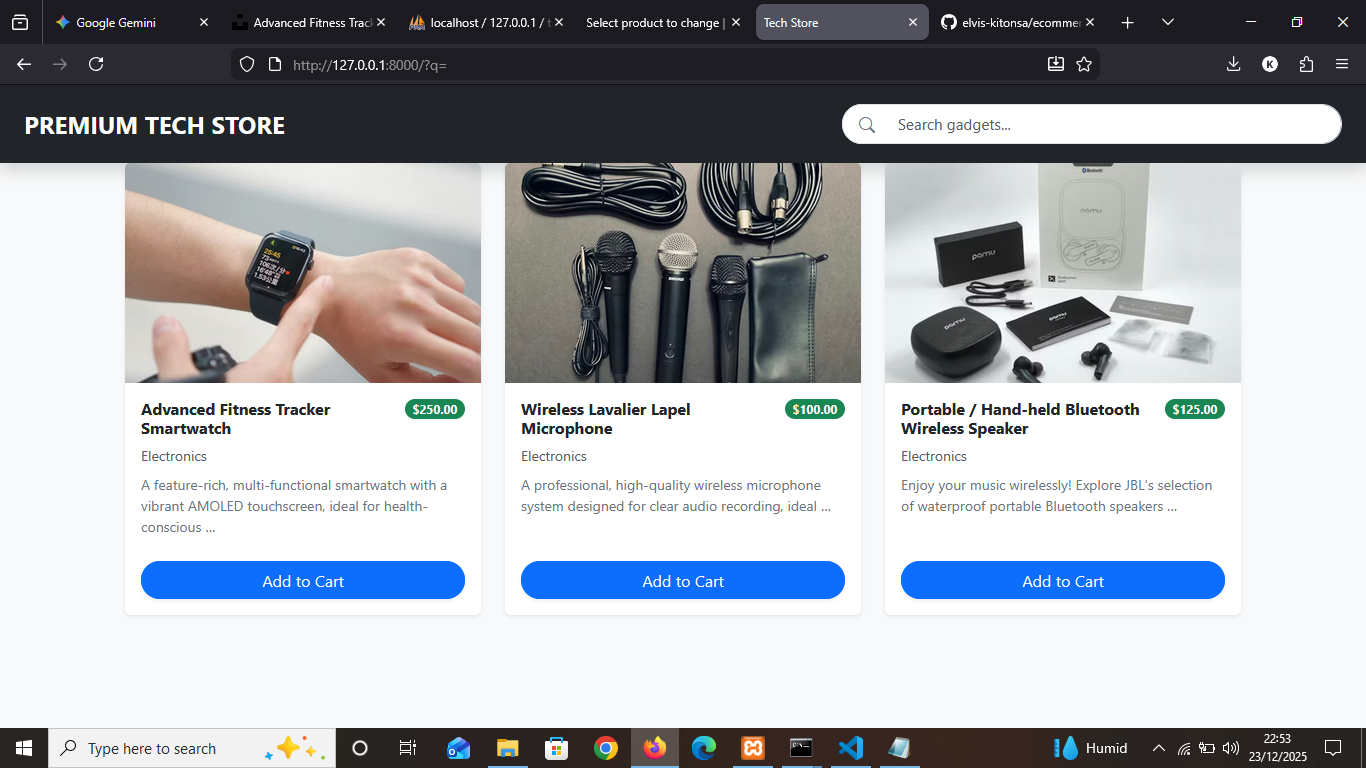
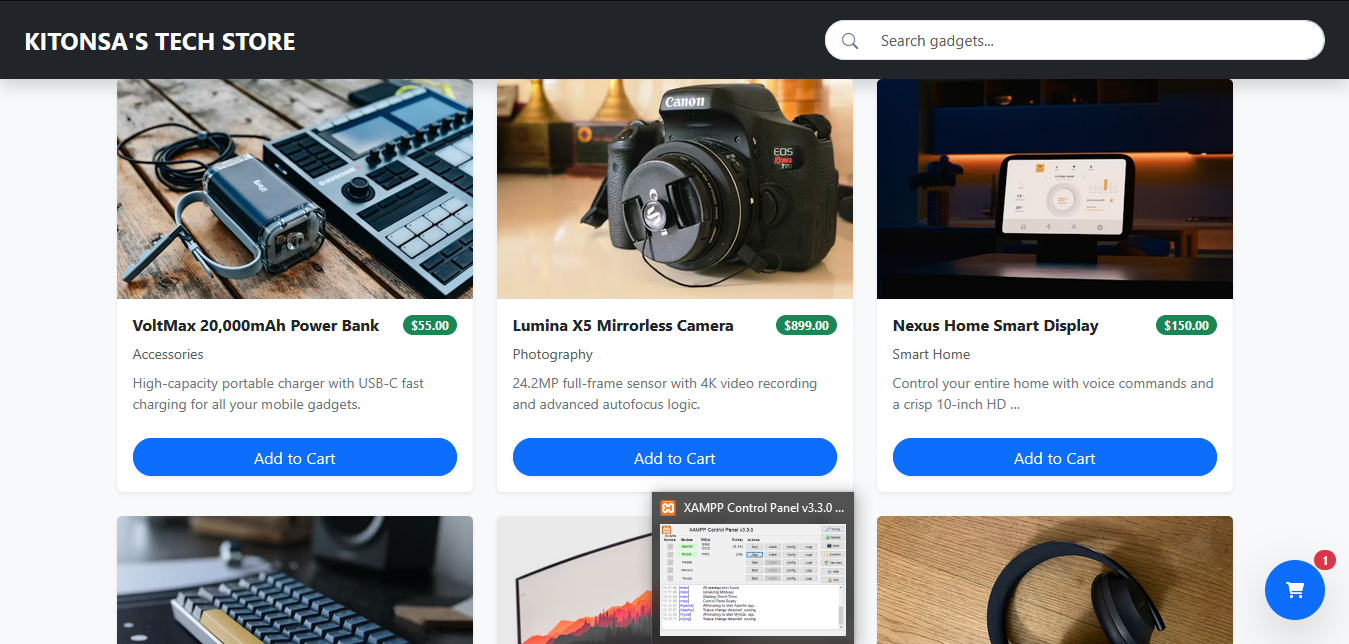
Updated project structure in the README.md & modified preview image displayed

diff --git a/README.md b/README.md
@@ -1,68 +1,80 @@
-# 💡 Project Concept
-**Premium Tech Store**
+💡 Project Concept
+KITONSA'S TECH STORE
 
-# 📝 Project Description
-A sleek, responsive e-commerce storefront specializing in high-end gadgets. Built with Django and powered by MariaDB, this project demonstrates a full-stack integration from a custom database to a Bootstrap-themed frontend.
+📝 Project Description
+A sleek, responsive e-commerce storefront specializing in high-end gadgets. Built with Django and powered by MariaDB, this project demonstrates a full-stack integration from a custom database to a highly interactive, "app-like" frontend experience.
 
-## 🤖 Development Process
-This project was built using an **AI-augmented workflow**. 
-I utilized **Google Gemini** as a thought partner to:
-* Architect the Django static file routing.
-* Refactor inline scripts into modular JavaScript.
-* Debug real-time search logic and MariaDB integration.
+🤖 Development Process
+This project was built using an AI-augmented workflow. I utilized Google Gemini as a technical thought partner to:
 
-## ✨ Features
-* **Dynamic Product Grid:** Automatically renders tech items from the MariaDB database.
-* **Polished UI:** Custom Bootstrap cards with hover effects and uniform image scaling.
-* **Smart Truncation:** Product descriptions are automatically summarized to keep the layout consistent.
-* **Live Pricing:** Items feature distinct price badges and "Add to Cart" functionality.
-* **Search Engine:** (In Progress) Fast filtering to find specific gadgets instantly.
+    1. Architect the Django static file routing and MariaDB integration.
 
-## 🛠 Tech Stack
-* **Backend:** Python / Django 4.2
-* **Database:** MariaDB (via XAMPP)
-* **Frontend:** Bootstrap 5, HTML5, CSS3
-* **Database Connector:** PyMySQL
+    2. Refactor procedural scripts into modular, Vanilla JavaScript.
 
-## ⚙ Installation & Setup
-1.  **Clone the Repository:**
-    ```bash
-    git clone [https://github.com/elvis-kitonsa/ecommerce_project.git](https://github.com/elvis-kitonsa/ecommerce_project.git)
+    3. Implement LocalStorage state management for the shopping cart.
+
+✨ Features
+    1. Dynamic Product Grid: Automatically renders tech items from the MariaDB database.
+
+    2. Smart Live Search: Instant, client-side filtering that searches titles and descriptions as you type.
+
+    3. Persistent Shopping Cart: Items stay in your cart even if you refresh or close the browser, thanks to LocalStorage API.
+
+    4. Advanced Cart Management: Includes quantity toggles, "Clear Cart" functionality, and automated total price calculation.
+
+    5. Order Success Workflow: A professional checkout simulation using a Bootstrap 5 Modal for order confirmation.
+
+    6. Polished UI: Custom hover effects, uniform image scaling, and a floating cart indicator with real-time badges.
+
+🛠 Tech Stack
+    1. Backend: Python / Django 4.2
+
+    2. Database: MariaDB (via XAMPP)
+
+    3. Frontend: JavaScript (ES6+), Bootstrap 5, FontAwesome, HTML5/CSS3
+
+    4. Database Connector: PyMySQL
+
+📂 Project Structure
+
+    Here is the project outline of the entire system:
+
+        ecommerce_project/
+    ├── core/                  # Project-wide settings and routing
+    ├── shop/                  # Main store application logic
+    │   ├── static/shop/       # Frontend assets
+    │   │   ├── css/style.css  # Custom styling
+    │   │   └── js/search.js   # The 'Engine' (Search & Cart Logic)
+    │   ├── templates/shop/    # HTML pages
+    │   │   ├── product_list.html # Dashboard/Storefront
+    │   │   └── cart.html      # Dynamic Shopping Cart & Checkout
+    │   ├── models.py          # Product Database Schema
+    │   └── views.py           # Controllers for Store & Cart
+    ├── media/                 # Uploaded product images
+    └── manage.py              # Django command-line utility
+
+
+⚙ Installation & Setup
+    1. Clone the Repository:
+
+    git clone https://github.com/elvis-kitonsa/ecommerce_project.git
     cd ecommerce_project
-    ```
-2.  **Environment Setup:**
-    - Install dependencies: `pip install -r requirements.txt`
-3.  **Database Configuration:**
-    - Ensure XAMPP (MySQL/MariaDB) is running.
-    - Create a database named `tech_store_db` via phpMyAdmin.
-    - (Optional) Update `core/settings.py` with your local database credentials.
-4.  **Initialize the Store:**
-    - Build tables: `python manage.py migrate`
-    - Start the server: `python manage.py runserver`
 
-## 📂 Project Structure
+    2. Environment Setup:
 
-Here is the project outline of the entire system:
+    Install dependencies: pip install -r requirements.txt
 
-```text
-ecommerce_project/
-├── core/                  # Project-wide settings and routing
-│   ├── settings.py        # Database (MariaDB) & app configurations
-│   └── urls.py            # Main URL dispatcher
-├── shop/                  # Main store application logic
-│   ├── migrations/        # Database schema history
-│   ├── static/shop/       # Frontend assets
-│   │   ├── css/           # Custom styling (style.css)
-│   │   └── js/            # Interactivity (search.js)
-│   ├── templates/shop/    # HTML pages (product_list.html)
-│   ├── models.py          # Database structure for Products
-│   ├── views.py           # Logic for displaying products
-│   └── urls.py            # App-specific URL routes
-├── media/                 # Uploaded product images
-├── manage.py              # Django command-line utility
-└── db.sqlite3 / MariaDB   # Project database
-```
+    3. Database Configuration:
 
-## 📸 Preview
-![Tech Store Preview](media/dashboard-preview.png)
+    Ensure XAMPP (MySQL/MariaDB) is running and create a database named tech_store_db.
 
+    Update core/settings.py with your credentials.
+
+    4. Initialize & Run:
+
+    python manage.py migrate
+
+    python manage.py runserver
+
+📸 Preview
+![Tech Store Preview](media/preview.png)
